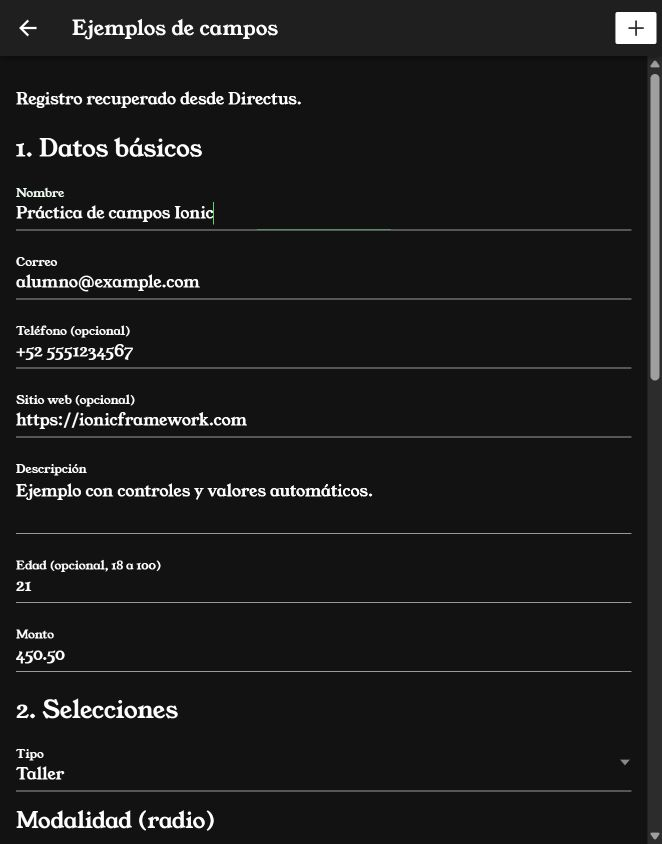
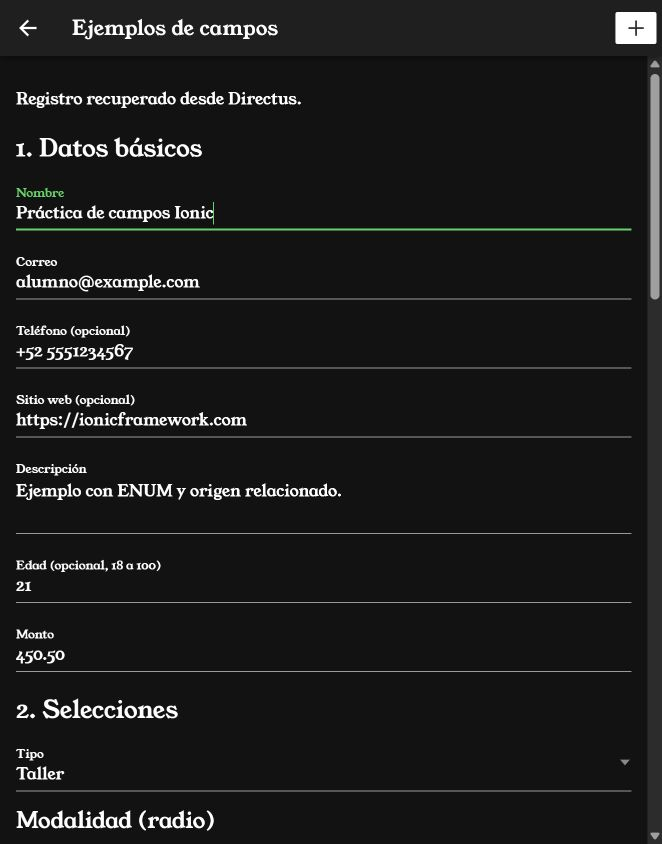
docs: ajusta manual 17 con ENUM y catalogo de origen

Changed region(s): [[0.1813, 0.5545, 0.5438, 0.6161], [0.9668, 0.3389, 0.997, 0.4621], [0.0302, 0.2156, 0.0906, 0.2464]]

diff --git a/docs/manuales/17_campos_formularios.md b/docs/manuales/17_campos_formularios.md
@@ -15,14 +15,14 @@ Necesitas una cuenta administrativa para preparar la colección y una cuenta de 
 | Necesidad | Control Ionic | Valor que se envía | Campo en Directus |
 | --- | --- | --- | --- |
 | Nombre | ion-input | Texto | nombre, String(100) |
-| Correo | ion-input type="email" | Texto validado | correo, String(254) |
+| Correo | ion-input type="email" | Texto validado | correo, String(100) |
 | Teléfono | ion-input type="tel" | Texto; conserva + y espacios | telefono, String(20) |
-| Dirección web | ion-input type="url" | Texto que empieza con http:// o https:// | sitio_web, String(255) |
+| Dirección web | ion-input type="url" | Texto que empieza con http:// o https:// | sitio_web, String(100) |
 | Descripción larga | ion-textarea | Texto | descripcion, Text |
 | Edad | ion-input type="number" | Entero o null | edad, Integer |
 | Importe | ion-input type="number" step="0.01" | Número con hasta dos decimales | monto, Decimal(10,2) |
-| Una opción de una lista | ion-select | "curso" o "taller" | tipo, String(30) |
-| Una opción visible entre varias | ion-radio-group con ion-radio | "presencial" o "en_linea" | modalidad, String(30) |
+| Una opción de una lista | ion-select | "curso" o "taller" | tipo, ENUM('curso','taller') |
+| Una opción visible entre varias | ion-radio-group con ion-radio | "presencial" o "en_linea" | modalidad, ENUM('presencial','en_linea') |
 | Varias opciones de una lista | ion-select con [multiple]="true" | Arreglo de textos | tecnologias, JSON |
 | Varias casillas independientes | Grupo de ion-checkbox | Arreglo con los canales marcados | canales, JSON |
 | Aceptación obligatoria | ion-checkbox | Booleano true/false | acepta_terminos, Boolean |
@@ -39,7 +39,7 @@ En las opciones, el texto **Taller** es la etiqueta que ve el usuario; `value="t
 | --- | --- | --- |
 | modalidad = presencial y prioridad = 3 | FormBuilder | Al abrir o reiniciar; el usuario puede cambiarlos. |
 | estado = pendiente | guardar() | Al construir el objeto que se enviará. |
-| origen = app_ionic | guardar() | Al construir el objeto que se enviará. |
+| origen = ID del catálogo | obtenerOrigenApp() y guardar() | Busca el código app_ionic y envía su ID, sin pedirlo al usuario. |
 | fecha_envio | new Date().toISOString() | Al enviar, usando el reloj del dispositivo y formato UTC. |
 | fecha_creacion | Directus, campo especial date-created | Al crear el registro en el servidor. |
 | id | MariaDB, entero autoincremental | Al insertar el registro. |
@@ -53,27 +53,37 @@ No hace falta agregar un control oculto para enviar `estado`. Se incluye directa
 | getRawValue() | Leer los valores antes de construir el objeto. |
 | Number(), trim(), filter(Boolean) | Convertir números, limpiar texto y reunir opciones marcadas. |
 | guardar() | Validar, preparar datos y crear el registro. |
+| obtenerOrigenApp() | Buscar por codigo el ID y nombre del origen de esta aplicación. |
 | crear() / obtener() del servicio | POST a la colección y GET del registro por ID. |
 | consultarGuardado() | Volver a leer desde Directus lo que se guardó. |
 | nuevo() | Reiniciar campos y valores iniciales mediante el icono +. |
 
 ## 3. Implementación paso a paso
 
-### Paso 1. Preparar la colección de Directus
+### Paso 1. Preparar el catálogo y la colección de Directus
+
+Crea primero **origenes_ejemplo** en Configuración → Modelo de datos. Usa id entero autoincremental, codigo String(30) obligatorio y único, y nombre String(100) obligatorio. En la plantilla de visualización usa `{{nombre}}`. Agrega estos registros desde Contenido:
+
+| codigo | nombre |
+| --- | --- |
+| app_ionic | Aplicación Ionic |
+| importacion | Importación |
+
+Los IDs se generan en cada instalación. El código consultará por codigo y conservará el ID recibido; no supone que Aplicación Ionic siempre tenga ID 1. La definición está en [catalogo-origenes.json](recursos/17_campos/catalogo-origenes.json).
 
 En **Configuración → Modelo de datos**, crea `ejemplos_campos` con clave primaria `id` de tipo entero autoincremental. Agrega los siguientes campos con sus nombres exactos. **Obligatorio** significa que la columna no admite nulo; los arreglos vacíos, cero y false siguen siendo valores.
 
 | Campo | Tipo | Configuración |
 | --- | --- | --- |
 | nombre | String(100) | Obligatorio; entrada de texto. |
-| correo | String(254) | Obligatorio; entrada de correo. |
+| correo | String(100) | Obligatorio; entrada de correo. |
 | telefono | String(20) | Admite nulo; entrada de texto. |
-| sitio_web | String(255) | Admite nulo; entrada de texto. |
+| sitio_web | String(100) | Admite nulo; entrada de texto. |
 | descripcion | Text | Admite nulo; entrada multilínea. |
 | edad | Integer | Admite nulo; entrada numérica. |
 | monto | Decimal(10,2) | Obligatorio; precisión 10 y escala 2. |
-| tipo | String(30) | Obligatorio; desplegable Curso=curso y Taller=taller. |
-| modalidad | String(30) | Obligatorio; radio Presencial=presencial y En línea=en_linea. |
+| tipo | ENUM('curso','taller') | Obligatorio; desplegable Curso=curso y Taller=taller. |
+| modalidad | ENUM('presencial','en_linea') | Obligatorio; radio Presencial=presencial y En línea=en_linea. |
 | tecnologias | JSON | Obligatorio; desplegable múltiple Ionic=ionic, Angular=angular y Directus=directus. |
 | canales | JSON | Obligatorio; casillas Correo=correo y WhatsApp=whatsapp. |
 | acepta_terminos | Boolean | Obligatorio; predeterminado false. |
@@ -81,14 +91,37 @@ En **Configuración → Modelo de datos**, crea `ejemplos_campos` con clave prim
 | prioridad | Integer | Obligatorio; predeterminado 3; deslizador de 0 a 10. |
 | fecha_evento | Date | Admite nulo. |
 | hora_evento | Time | Admite nulo. |
-| estado | String(30) | Obligatorio; predeterminado pendiente; solo lectura en Directus. |
-| origen | String(30) | Obligatorio; predeterminado app_ionic; solo lectura en Directus. |
+| estado | ENUM('pendiente','confirmado','cancelado') | Obligatorio; predeterminado pendiente; solo lectura en Directus. |
+| origen | Integer, llave foránea | Relación muchos a uno con origenes_ejemplo.id, obligatoria; solo lectura en Directus. |
 | fecha_envio | Timestamp | Obligatorio; fecha y hora. |
 | fecha_creacion | Timestamp | Campo especial Fecha de creación, date-created; solo lectura. |
 
-Para `fecha_creacion` utiliza el campo automático **Fecha de creación**: una entrada de fecha normal no genera la fecha por sí sola. Los campos JSON llevan la conversión `cast-json` y los booleanos `cast-boolean`; la definición adjunta conserva estas opciones. La colección completa, con sus 21 campos contando id, está en [coleccion.json](recursos/17_campos/coleccion.json). Es la definición para la API de colecciones, no un archivo de datos para importar desde la lista de registros.
+#### Configurar ENUM nativos y la llave foránea
 
-En la política de la cuenta de práctica habilita **Create** y **Read** para `ejemplos_campos`. Esta práctica usa permisos normales para todos sus campos, sin reglas personalizadas. La opción solo lectura controla la edición en la interfaz de Directus; no vuelve inmodificable un valor enviado por otro cliente.
+Al crear tipo, modalidad y estado desde Directus, usa inicialmente String(30) y conserva las opciones de desplegable o radio de la tabla. Después ejecuta este SQL sobre la base conectada a Directus, por ejemplo desde el editor SQL de CloudBeaver:
+
+```sql
+ALTER TABLE ejemplos_campos
+  MODIFY correo VARCHAR(100) NOT NULL,
+  MODIFY sitio_web VARCHAR(100) NULL,
+  MODIFY tipo ENUM('curso','taller') NOT NULL,
+  MODIFY modalidad ENUM('presencial','en_linea') NOT NULL,
+  MODIFY estado ENUM('pendiente','confirmado','cancelado') NOT NULL DEFAULT 'pendiente';
+```
+
+El archivo [ajustes-enum.sql](recursos/17_campos/ajustes-enum.sql) contiene los cambios. Son ENUM reales de MariaDB: la base rechaza valores fuera de sus listas. Directus 12.3.1 identifica este tipo como **unknown** en su modelo; las interfaces de selección configuradas, el POST y el GET se probaron con esta versión. Los cambios de la lista nativa se realizan mediante SQL. El desplegable por sí solo no convierte una columna en ENUM.
+
+Para origen, crea una relación **Muchos a uno (M2O)** hacia origenes_ejemplo, con clave foránea en ejemplos_campos.origen. Utiliza Integer, no permite nulo, sin predeterminado numérico, y configura la eliminación del catálogo como **RESTRICT**. La interfaz muestra el nombre relacionado mediante `{{nombre}}`. La [definición de la relación](recursos/17_campos/relacion-origen.json) conserva sus parámetros. Así la base impide guardar un ID inexistente y eliminar un origen que esté en uso.
+
+Después de cambiar tipos mediante SQL, actualiza el esquema del servicio existente:
+
+```powershell
+docker compose restart api
+```
+
+Para `fecha_creacion` utiliza el campo automático **Fecha de creación**: una entrada de fecha normal no genera la fecha por sí sola. Los campos JSON llevan la conversión `cast-json` y los booleanos `cast-boolean`; la definición adjunta conserva estas opciones. La colección completa, con sus 21 campos contando id, está en [coleccion.json](recursos/17_campos/coleccion.json). Es la definición inicial para la API de colecciones: crea los campos de texto base; después aplica ajustes-enum.sql y la relación indicada. No es un archivo de datos para importar desde la lista de registros.
+
+En la política de la cuenta de práctica habilita **Create** y **Read** para `ejemplos_campos`. Agrega también **Read** sobre origenes_ejemplo para consultar el catálogo y expandir el nombre relacionado. Esta práctica usa permisos normales para todos sus campos, sin reglas personalizadas. La opción solo lectura controla la edición en la interfaz de Directus; no vuelve inmodificable un valor enviado por otro cliente.
 
 ### Paso 2. Crear servicio, página y ruta
 
@@ -118,7 +151,7 @@ La figura 2 muestra las opciones seleccionadas. Selecciona Taller, En línea, Io
 
 ### Paso 4. Construir los datos y guardar
 
-`guardar()` comprueba la validación antes de llamar a la API. Después construye el objeto: convierte números, transforma las casillas en arreglo, envía null en los campos opcionales vacíos y agrega `estado`, `origen` y `fecha_envio`. No envía `id` ni `fecha_creacion`.
+`guardar()` comprueba la validación antes de llamar a la API. Primero consulta el catálogo por codigo=app_ionic. Después construye el objeto: convierte números, transforma las casillas en arreglo, envía null en los campos opcionales vacíos y agrega `estado`, el ID de `origen` y `fecha_envio`. No envía `id` ni `fecha_creacion`.
 
 La figura 3 muestra el interruptor, el rango y los controles de fecha y hora. Pulsa **Guardar ejemplo** para ejecutar POST /items/ejemplos_campos. Mientras se procesa, el botón se desactiva; al guardar queda desactivado hasta pulsar + para otro ejemplo.
 
@@ -133,8 +166,8 @@ La figura 3 muestra el interruptor, el rango y los controles de fecha y hora. Pu
 Pulsa **Consultar registro guardado**: se ejecuta un GET por ID. Abre los paneles **JSON enviado** y **Registro recuperado** para comprobar los datos. La figura 4 muestra el resultado real de esa consulta, incluido el estado y las dos fechas.
 
 <p align="center">
-  <img src="imagenes/17-registro-guardado.jpg" alt="Registro 2 recuperado desde Directus después de guardarlo en Ionic" width="390"><br>
-  <em>Figura 4. Registro 2 recuperado desde Directus después de guardarlo en Ionic.</em>
+  <img src="imagenes/17-registro-guardado.jpg" alt="Registro 8 recuperado desde Directus después de guardarlo en Ionic" width="390"><br>
+  <em>Figura 4. Registro 8 recuperado desde Directus después de guardarlo en Ionic.</em>
 </p>
 
 
@@ -146,13 +179,20 @@ En Directus abre Contenido → Ejemplos Campos y selecciona ese registro. La fig
 </p>
 
 
+La figura 6 muestra el estado y la relación de origen en Directus: el nombre viene del catálogo, mientras ejemplos_campos almacena su llave.
+
+<p align="center">
+  <img src="imagenes/17-origen-relacionado.jpg" alt="Estado ENUM y origen relacionado en Directus" width="900"><br>
+  <em>Figura 6. Estado ENUM y origen relacionado en Directus.</em>
+</p>
+
 ### Paso 6. Elegir la ubicación del icono +
 
-Elige **una opción** mediante `usarBotonFlotante`. Con false aparece en la barra, como en las figuras anteriores; con true aparece abajo a la derecha, como en la figura 6. El mismo método `nuevo()` reinicia el ejemplo. El HTML completo contiene ambas alternativas con condiciones que impiden mostrarlas juntas.
+Elige **una opción** mediante `usarBotonFlotante`. Con false aparece en la barra, como en las figuras anteriores; con true aparece abajo a la derecha, como en la figura 7. El mismo método `nuevo()` reinicia el ejemplo. El HTML completo contiene ambas alternativas con condiciones que impiden mostrarlas juntas.
 
 <p align="center">
   <img src="imagenes/17-boton-flotante.jpg" alt="Variante con icono + flotante para preparar otro ejemplo" width="390"><br>
-  <em>Figura 6. Variante con icono + flotante para preparar otro ejemplo.</em>
+  <em>Figura 7. Variante con icono + flotante para preparar otro ejemplo.</em>
 </p>
 
 
@@ -174,8 +214,8 @@ export interface EjemploCrear {
   descripcion: string | null;
   edad: number | null;
   monto: number;
-  tipo: string;
-  modalidad: string;
+  tipo: 'curso' | 'taller';
+  modalidad: 'presencial' | 'en_linea';
   tecnologias: string[];
   canales: string[];
   acepta_terminos: boolean;
@@ -183,11 +223,13 @@ export interface EjemploCrear {
   prioridad: number;
   fecha_evento: string | null;
   hora_evento: string | null;
-  estado: string;
-  origen: string;
+  estado: 'pendiente' | 'confirmado' | 'cancelado';
+  origen: number;
   fecha_envio: string;
 }
-export interface EjemploGuardado extends Omit<EjemploCrear, 'monto'> {
+export interface OrigenEjemplo { id: number; codigo: string; nombre: string; }
+export interface EjemploGuardado extends Omit<EjemploCrear, 'monto' | 'origen'> {
+  origen: OrigenEjemplo;
   id: number;
   monto: string | number;
   fecha_creacion: string;
@@ -195,12 +237,21 @@ export interface EjemploGuardado extends Omit<EjemploCrear, 'monto'> {
 @Injectable({ providedIn: 'root' })
 export class EjemplosCamposService {
   constructor(private auth: AuthService) {}
+  private readonly campos = '*,origen.id,origen.codigo,origen.nombre';
+  async obtenerOrigenApp(): Promise<OrigenEjemplo> {
+    const response = await this.auth.cliente.get<{ data: OrigenEjemplo[] }>('/items/origenes_ejemplo', {
+      params: { 'filter[codigo][_eq]': 'app_ionic', limit: 1 }
+    });
+    const origen = response.data.data[0];
+    if (!origen) throw new Error('No existe el origen app_ionic en el catálogo.');
+    return origen;
+  }
   async crear(datos: EjemploCrear): Promise<EjemploGuardado> {
-    const response = await this.auth.cliente.post<{ data: EjemploGuardado }>('/items/ejemplos_campos', datos);
+    const response = await this.auth.cliente.post<{ data: EjemploGuardado }>('/items/ejemplos_campos', datos, { params: { fields: this.campos } });
     return response.data.data;
   }
   async obtener(id: number): Promise<EjemploGuardado> {
-    const response = await this.auth.cliente.get<{ data: EjemploGuardado }>('/items/ejemplos_campos/' + id);
+    const response = await this.auth.cliente.get<{ data: EjemploGuardado }>('/items/ejemplos_campos/' + id, { params: { fields: this.campos } });
     return response.data.data;
   }
 }
@@ -223,9 +274,9 @@ export class EjemplosCamposPage {
   readonly usarBotonFlotante = false;
   readonly form = this.fb.group({
     nombre: ['', [Validators.required, Validators.maxLength(100), Validators.pattern(/\S/)]],
-    correo: ['', [Validators.required, Validators.email, Validators.maxLength(254)]],
+    correo: ['', [Validators.required, Validators.email, Validators.maxLength(100)]],
     telefono: ['', Validators.pattern(/^[0-9+ ()-]{7,20}$/)],
-    sitio_web: ['', [Validators.maxLength(255), Validators.pattern(/^https?:\/\/[^\s]+$/)]],
+    sitio_web: ['', [Validators.maxLength(100), Validators.pattern(/^https?:\/\/[^\s]+$/)]],
     descripcion: [''],
     edad: ['', [Validators.min(18), Validators.max(100), Validators.pattern(/^\d+$/)]],
     monto: ['', [Validators.required, Validators.min(0), Validators.max(99999999.99), Validators.pattern(/^\d+(\.\d{1,2})?$/)]],
@@ -264,20 +315,21 @@ export class EjemplosCamposPage {
       return;
     }
     const v = this.form.getRawValue();
-    this.envio = {
+    this.enviando = true;
+    try {
+      const origen = await this.servicio.obtenerOrigenApp();
+      this.envio = {
       nombre: v.nombre!.trim(), correo: v.correo!.trim(),
       telefono: v.telefono?.trim() || null, sitio_web: v.sitio_web?.trim() || null,
       descripcion: v.descripcion?.trim() || null,
       edad: v.edad === '' || v.edad === null ? null : Number(v.edad), monto: Number(v.monto),
-      tipo: v.tipo!, modalidad: v.modalidad!, tecnologias: v.tecnologias ?? [],
+      tipo: v.tipo as EjemploCrear['tipo'], modalidad: v.modalidad as EjemploCrear['modalidad'], tecnologias: v.tecnologias ?? [],
       canales: [v.canales.correo ? 'correo' : '', v.canales.whatsapp ? 'whatsapp' : ''].filter(Boolean),
       acepta_terminos: !!v.acepta_terminos, recibir_avisos: !!v.recibir_avisos,
       prioridad: Number(v.prioridad), fecha_evento: v.fecha_evento || null,
       hora_evento: v.hora_evento ? v.hora_evento.slice(0, 5) + ':00' : null,
-      estado: 'pendiente', origen: 'app_ionic', fecha_envio: new Date().toISOString()
+      estado: 'pendiente', origen: origen.id, fecha_envio: new Date().toISOString()
     };
-    this.enviando = true;
-    try {
       this.guardado = await this.servicio.crear(this.envio);
       this.mensaje = 'Ejemplo guardado correctamente.';
     } catch {
@@ -321,11 +373,11 @@ export class EjemplosCamposPage {
     <h2>1. Datos básicos</h2>
     <ion-input label="Nombre" labelPlacement="stacked" formControlName="nombre" maxlength="100"></ion-input>
     <ion-note color="danger" *ngIf="error('nombre') as texto">{{ texto }}</ion-note>
-    <ion-input label="Correo" labelPlacement="stacked" type="email" formControlName="correo"></ion-input>
+    <ion-input label="Correo" labelPlacement="stacked" type="email" maxlength="100" formControlName="correo"></ion-input>
     <ion-note color="danger" *ngIf="error('correo') as texto">{{ texto }}</ion-note>
     <ion-input label="Teléfono (opcional)" labelPlacement="stacked" type="tel" formControlName="telefono"></ion-input>
     <ion-note color="danger" *ngIf="error('telefono') as texto">{{ texto }}</ion-note>
-    <ion-input label="Sitio web (opcional)" labelPlacement="stacked" type="url" placeholder="https://ejemplo.com" formControlName="sitio_web"></ion-input>
+    <ion-input label="Sitio web (opcional)" labelPlacement="stacked" type="url" maxlength="100" placeholder="https://ejemplo.com" formControlName="sitio_web"></ion-input>
     <ion-note color="danger" *ngIf="error('sitio_web') as texto">{{ texto }}</ion-note>
     <ion-textarea label="Descripción" labelPlacement="stacked" formControlName="descripcion" [autoGrow]="true"></ion-textarea>
     <ion-input label="Edad (opcional, 18 a 100)" labelPlacement="stacked" type="number" min="18" max="100" formControlName="edad"></ion-input>
@@ -366,7 +418,7 @@ export class EjemplosCamposPage {
   <ion-card *ngIf="guardado as registro">
     <ion-card-header><ion-card-title>Registro guardado #{{ registro.id }}</ion-card-title></ion-card-header>
     <ion-card-content>
-      <p>Nombre: {{ registro.nombre }}</p><p>Estado: {{ registro.estado }}</p><p>Origen: {{ registro.origen }}</p>
+      <p>Nombre: {{ registro.nombre }}</p><p>Estado: {{ registro.estado }}</p><p>Origen: {{ registro.origen.nombre }} ({{ registro.origen.codigo }})</p>
       <p>Fecha de envío: {{ registro.fecha_envio | date:'yyyy-MM-dd HH:mm:ss':'UTC' }} UTC</p>
       <p>Fecha de creación: {{ registro.fecha_creacion | date:'yyyy-MM-dd HH:mm:ss':'UTC' }} UTC</p>
       <ion-button fill="solid" (click)="consultarGuardado()" [disabled]="enviando">Consultar registro guardado</ion-button>
@@ -436,7 +488,7 @@ En la barra se usa `ion-button fill="solid"` con un icono `add` en slot icon-onl
 ### Prueba del formulario
 
 1. Inicia sesión y abre /ejemplos-campos. Intenta guardar vacío: deben aparecer mensajes y no debe crearse un registro.
-2. Escribe un correo sin formato válido, edad 17 y monto -1. Deben aparecer los mensajes de correo y mínimos, como en la figura 7. Corrige los valores antes de continuar.
+2. Escribe un correo sin formato válido, edad 17 y monto -1. Deben aparecer los mensajes de correo y mínimos, como en la figura 8. Corrige los valores antes de continuar.
 3. Completa los datos como en las figuras 1–3. Selecciona dos tecnologías y ambos canales; marca términos y activa avisos. Guarda una vez.
 4. Comprueba nombre, estado, origen y fechas en la tarjeta. Pulsa Consultar registro guardado y revisa que los arreglos y booleanos sigan iguales.
 5. Revisa el registro en Directus. `fecha_creacion` debe tener un valor aunque el JSON enviado no la incluya.
@@ -444,7 +496,7 @@ En la barra se usa `ion-button fill="solid"` con un icono `add` en slot icon-onl
 
 <p align="center">
   <img src="imagenes/17-validacion.jpg" alt="Validación de correo, edad y monto antes de enviar datos" width="390"><br>
-  <em>Figura 7. Validación de correo, edad y monto antes de enviar datos.</em>
+  <em>Figura 8. Validación de correo, edad y monto antes de enviar datos.</em>
 </p>
 
 
@@ -455,14 +507,16 @@ Pruebas ejecutadas el 17 de octubre de 2026 con Ionic 8.8.17, Angular 20.3.30, D
 | Comprobación | Resultado observado |
 | --- | --- |
 | Guardado vacío y con formatos inválidos | Ionic mostró mensajes y no creó registros adicionales. |
-| Creación desde Ionic | Registro 2, con monto 450.50, modalidad en_linea y las opciones elegidas. |
+| Creación desde Ionic | Registro 8, con monto 450.50, modalidad en_linea y las opciones elegidas. |
 | Selección múltiple y canales | Arreglos [ionic, directus] y [correo, whatsapp] recuperados desde Directus. |
 | Casilla e interruptor | Booleanos true conservados. |
 | Fecha y hora | 2026-11-20 y 10:30:00 conservados. |
-| Valores agregados por código | estado pendiente, origen app_ionic y fecha_envio presentes en el envío. |
+| Valores agregados por código | estado pendiente, ID de origen y fecha_envio presentes en el envío. |
 | Fecha automática del servidor | fecha_creacion presente solo en el registro recuperado. |
 | Cero, falso y vacíos desde Ionic | Registro 4 con monto 0, avisos false, arreglos vacíos, opcionales null y prioridad modificada a 4. |
-| Valores predeterminados mediante API | Un registro separado conservó monto 0, recibir_avisos false, arreglos vacíos y campos opcionales nulos; al omitir estado y origen se aplicaron sus predeterminados. |
+| Límites de correo y sitio web | API aceptó 100 caracteres y rechazó 101 en cada campo. |
+| ENUM y llave foránea | API rechazó valores fuera de cada ENUM y un ID de origen inexistente. |
+| Valores predeterminados mediante API | Un registro separado conservó monto 0, recibir_avisos false, arreglos vacíos y campos opcionales nulos; al omitir estado se aplicó pendiente; origen se envía como ID existente. |
 
 Consulta el [JSON realmente enviado](recursos/17_campos/envio-ejemplo.json) y el [registro recuperado](recursos/17_campos/registro-guardado.json). El [segundo ejemplo desde Ionic](recursos/17_campos/registro-minimo.json) conserva cero, false y campos vacíos. Directus devolvió el decimal como texto `"450.50"` y las marcas de tiempo con precisión de segundos; el tipo del servicio admite ese decimal como string o number.
 
@@ -470,11 +524,11 @@ Las validaciones de correo, edad y monto del ejemplo se ejecutan en Angular. Los
 
 ## 6. Explicación detallada del flujo
 
-La figura 8 muestra la captura, la decisión de validación, el guardado y la lectura posterior. Las ramas de corrección y de nuevo ejemplo regresan al formulario; la consulta posterior vuelve a mostrar los datos persistidos.
+La figura 9 muestra la captura, la decisión de validación, el guardado y la lectura posterior. Las ramas de corrección y de nuevo ejemplo regresan al formulario; la consulta posterior vuelve a mostrar los datos persistidos.
 
 <p align="center">
   <img src="imagenes/flujo-17-campos-ramas.png" alt="Flujo del formulario con validación, valores agregados y consulta posterior" width="1000"><br>
-  <em>Figura 8. Flujo del formulario con validación, valores agregados y consulta posterior.</em>
+  <em>Figura 9. Flujo del formulario con validación, valores agregados y consulta posterior.</em>
 </p>
 
 
@@ -490,11 +544,17 @@ Angular mantiene los valores del FormGroup al cambiar los controles. El radio co
 
 ### Valores fijos, valores predeterminados y fechas
 
-El objeto del POST agrega estado pendiente y origen app_ionic aunque no existan controles para ellos. También calcula fecha_envio en UTC con el reloj del dispositivo. Estos son valores que decide el código del cliente; no constituyen una regla de seguridad del servidor.
+El objeto del POST agrega estado pendiente y el ID de origen aunque no existan controles para ellos. obtenerOrigenApp() consulta el catálogo con filtro por codigo=app_ionic; devuelve el registro correspondiente o impide el envío si no existe. También calcula fecha_envio en UTC con el reloj del dispositivo. Estos son valores que decide el código del cliente; no constituyen una regla de seguridad del servidor.
 
-La colección tiene además predeterminados para estado y origen. Se usan cuando un cliente **omite** esos campos. Un valor explícito reemplaza al predeterminado; null no significa “usar el predeterminado” y estas dos columnas no admiten nulo. En esta implementación ambos se envían explícitamente para mostrar cómo agregar datos fuera del formulario.
+La columna estado tiene el predeterminado pendiente, que se usa cuando un cliente **omite** ese campo. Un valor explícito debe pertenecer al ENUM; null no significa “usar el predeterminado”. Origen no tiene un ID predeterminado en la base: la aplicación busca el catálogo para enviar un ID válido en cada instalación. Ambas columnas son obligatorias.
 
 Directus añade `fecha_creacion` mediante el especial date-created y MariaDB genera id al insertar. La aplicación no solicita ninguno al usuario. La fecha de creación depende del servidor; la de envío depende del dispositivo y pueden diferir. La tarjeta muestra ambas en UTC. Por su parte, fecha_evento es solo un día y hora_evento es solo una hora: se conservan sin convertirlas a UTC.
+
+### ENUM y catálogo con llave foránea
+
+Tipo, modalidad y estado usan listas cerradas: sus valores válidos están declarados en los ENUM de MariaDB y se envían como cadenas. Para un conjunto de opciones administradas como datos, el modelo adecuado es un **catálogo con llave foránea**: origenes_ejemplo contiene cada opción una sola vez y ejemplos_campos.origen guarda su ID. Cambiar el nombre del catálogo no obliga a copiarlo en los registros.
+
+El cuerpo del POST incluye, por ejemplo, origen: 1, usando el ID consultado, no la etiqueta. La consulta solicita fields=*,origen.id,origen.codigo,origen.nombre: Directus expande la relación y devuelve origen como objeto. Por eso EjemploCrear declara origen como number y EjemploGuardado como OrigenEjemplo. La tarjeta muestra registro.origen.nombre.
 
 ### De la respuesta a la comprobación
 
@@ -502,4 +562,6 @@ Directus responde con `{ data: registro }`. Axios envuelve esa respuesta en su p
 
 Fuentes editables: [JSON de los flujos](recursos/flujos/flujos.json), [DOT](recursos/flujos/17-campos.dot) y [Mermaid](recursos/flujos/17-campos.mmd). El manual muestra el PNG para que también sea visible en lectores que no ejecutan Mermaid.
 
-Referencias: [campos de Directus](https://directus.com/docs/guides/data-model/fields) y [checkbox de Ionic 8](https://ionicframework.com/docs/v8/api/checkbox).
+Las pruebas de restricciones se conservan en [pruebas-esquema.json](recursos/17_campos/pruebas-esquema.json).
+
+Referencias: [ENUM de MariaDB](https://mariadb.com/docs/server/reference/data-types/string-data-types/enum), [campos de Directus](https://directus.com/docs/guides/data-model/fields) y [checkbox de Ionic 8](https://ionicframework.com/docs/v8/api/checkbox).

diff --git a/docs/VALIDACION.md b/docs/VALIDACION.md
@@ -75,3 +75,12 @@ Se guardó desde Ionic un segundo ejemplo (registro 4) con monto 0, recibir_avis
 La compilación final de desarrollo del ejemplo fue correcta. Se comprobó que los cinco archivos del punto 4 coinciden con los utilizados en la aplicación, que las ocho figuras tienen sus etiquetas cerradas y que los 20 diagramas del repositorio conservan referencias y fuentes válidas. La apertura de la vista Markdown local en Codex quedó en cola; su presentación se verificará en GitHub tras publicar.
 
 Después de publicar el manual 17 se verificó su vista Markdown en GitHub: las ocho imágenes cargaron con tamaño natural válido y quedaron centradas (desfase de 0 px respecto a su párrafo). Se inspeccionó visualmente la figura 1 dentro del documento; el PNG del flujo también se había revisado visualmente antes de publicar. Esta comprobación corresponde al navegador de GitHub, no a su aplicación móvil nativa.
+
+
+## Ajuste del manual 17: ENUM y catálogo relacionado
+
+Se redujeron correo y sitio_web a VARCHAR(100), con validación y maxlength de 100 en Ionic. Se conservaron los cuatro ejemplos existentes. Tipo, modalidad y estado se convirtieron en ENUM nativos de MariaDB; origen pasó a llave foránea entera hacia origenes_ejemplo.id. El catálogo contiene app_ionic e importacion y la cuenta de práctica solo necesita Read sobre él. La aplicación busca el ID por código, lo envía en el POST y expande la relación para mostrar nombre y código al consultar.
+
+Se comprobó en MariaDB el tipo nativo de las seis columnas y la restricción de origen. La API autenticada aceptó correo y sitio web de 100 caracteres, rechazó 101 (VALUE_TOO_LONG), valores fuera de los tres ENUM (CONTAINS_NULL_VALUES) y un origen inexistente (INVALID_FOREIGN_KEY). Al omitir estado aplicó pendiente. Las observaciones están en recursos/17_campos/pruebas-esquema.json.
+
+Directus 12.3.1 reconoce los ENUM nativos como unknown en su modelo. Se verificó en esta versión el guardado y consulta REST, así como las interfaces administrativas configuradas de desplegable y radio; no se afirma soporte de edición nativa del ENUM desde su diseñador. El manual indica el SQL necesario. En Ionic se creó y volvió a consultar el registro 8, mostrando Aplicación Ionic (app_ionic). Se actualizaron los JSON, las capturas afectadas y el flujo; se añadió una captura de la relación en Directus. El registro mínimo 4 se volvió a consultar con la relación expandida. La compilación de desarrollo fue correcta.

diff --git a/README.md b/README.md
@@ -95,7 +95,7 @@ Las capturas y los diagramas se incluyen como imágenes centradas con pie de fig
 
 - **09–11, 13 y 14:** pruebas realizadas con la aplicación y la API del entorno del curso.
 - **12:** acceso y validaciones comprobados; registro completo pendiente de habilitar el registro y configurar el correo de verificación.
-- **17:** controles de formulario, valores automáticos, guardado y consulta comprobados en Ionic y Directus.
+- **17:** controles de formulario, ENUM, catálogo con llave foránea, valores automáticos, guardado y consulta comprobados en Ionic y Directus.
 - **15:** subida, asociación y recuperación de imágenes comprobadas con una cuenta de práctica y archivos compartidos.
 
 Consulta el [registro de validación](docs/VALIDACION.md) para conocer el alcance de cada comprobación.
